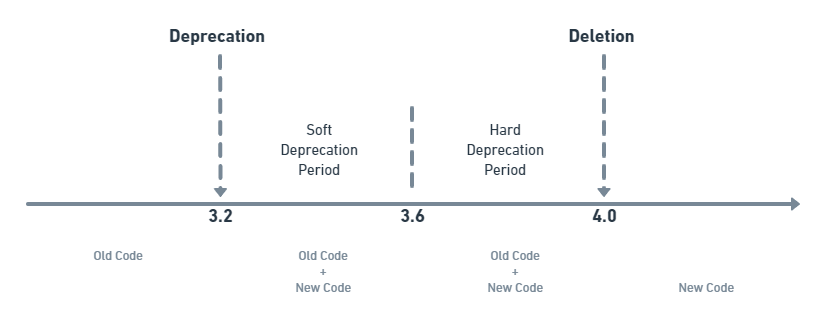
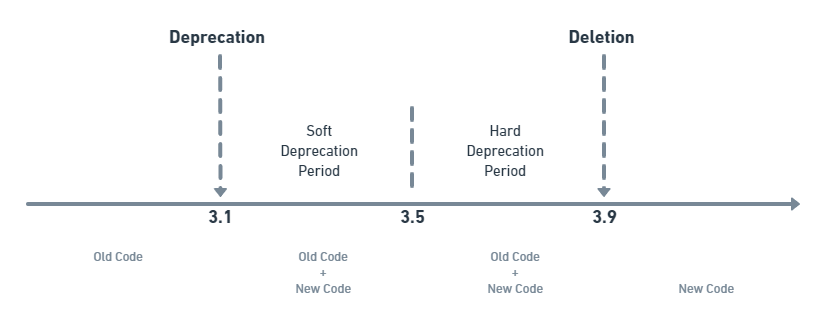
Deprecations: Update deprecation period ilustration (#180)

diff --git a/src/deprecations/index.md b/src/deprecations/index.md
@@ -28,7 +28,7 @@ After eight major versions, the deprecated code is deleted from the codebase. At
 
 ## Deprecation Period Example
 
-As an example, if code is deprecated in Elementor 3.2.0, it will start throwing PHP errors in Elementor 3.6.0, and will likely be deleted in Elementor 4.0.0.
+As an example, if code is deprecated in Elementor 3.1.0, it will start throwing PHP errors in Elementor 3.5.0, and will likely be deleted in Elementor 3.9.0.
 
 <img :src="$withBase('/assets/img/elementor-deprecation-period.png')" alt="Elementor Deprecation Period">
 
